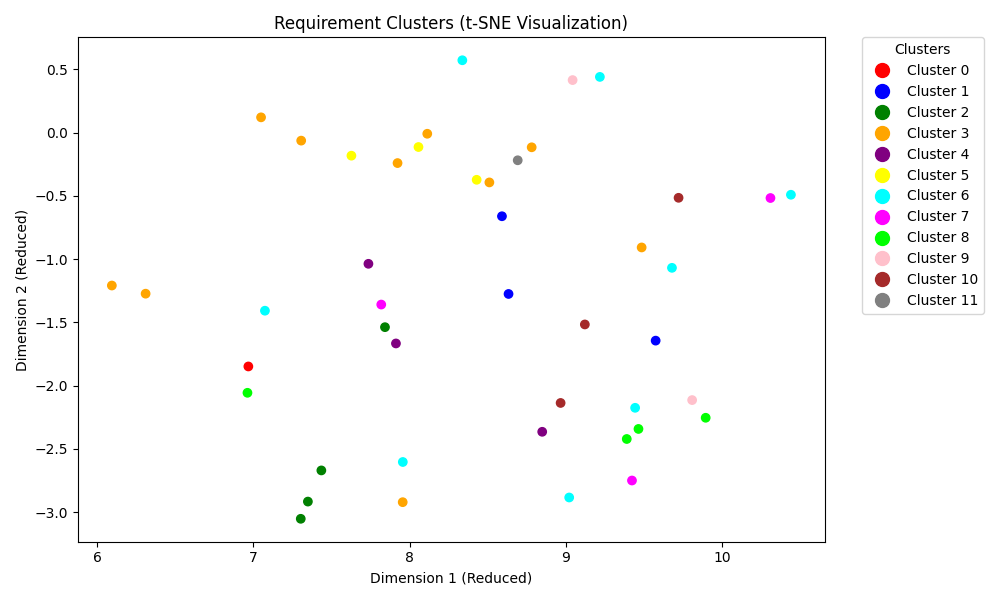
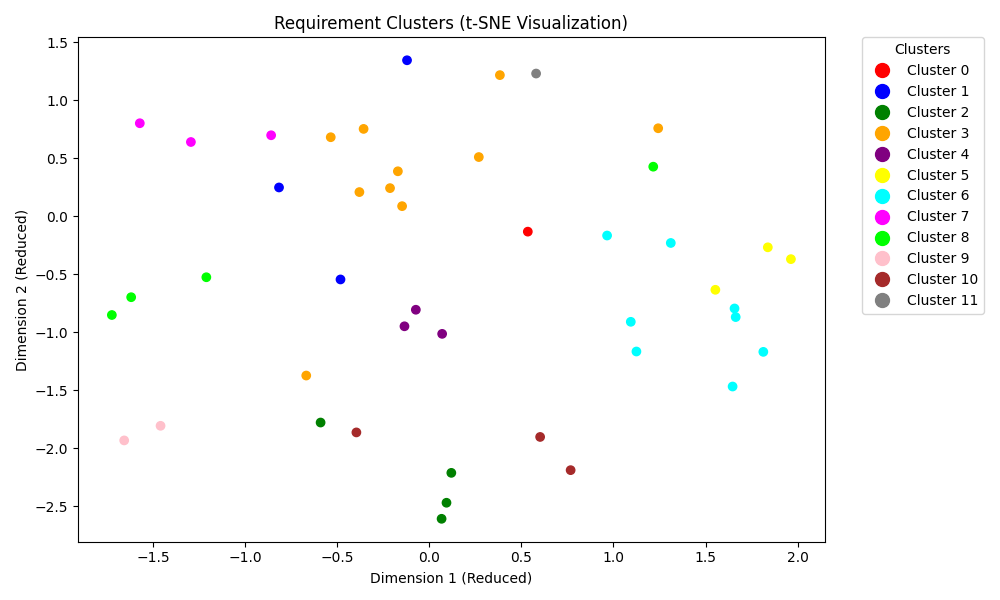
fix: plotting data from openai directly, ignoring pinecone

diff --git a/main.py b/main.py
@@ -221,19 +221,18 @@ def main():
     requirements = get_requirements()
 
     embeddings = get_embeddings(oai, requirements)
-    pinecone_index = setup_pinecone()
 
-    upsert_embeddings_to_pinecone(pinecone_index, embeddings)
-
-    query_vector = embeddings[0]  # Use the first embedding as the query vector
-    result = pinecone_index.query(vector=query_vector, top_k=len(embeddings), include_values=True)
-    data = [res['values'] for res in result['matches']]
+    #pinecone_index = setup_pinecone()
+    #upsert_embeddings_to_pinecone(pinecone_index, embeddings)
+    #query_vector = embeddings[0]  # Use the first embedding as the query vector
+    #result = pinecone_index.query(vector=query_vector, top_k=len(embeddings), include_values=True)
+    #data = [res['values'] for res in result['matches']]
 
     num_clusters = 12
     clusters = cluster_embeddings(embeddings, requirements, num_clusters)
     save_clusters_to_file(clusters, requirements, num_clusters)
 
-    visualize_embeddings(data, clusters)
+    visualize_embeddings(embeddings, clusters)
 
 
 # Execute the main function
